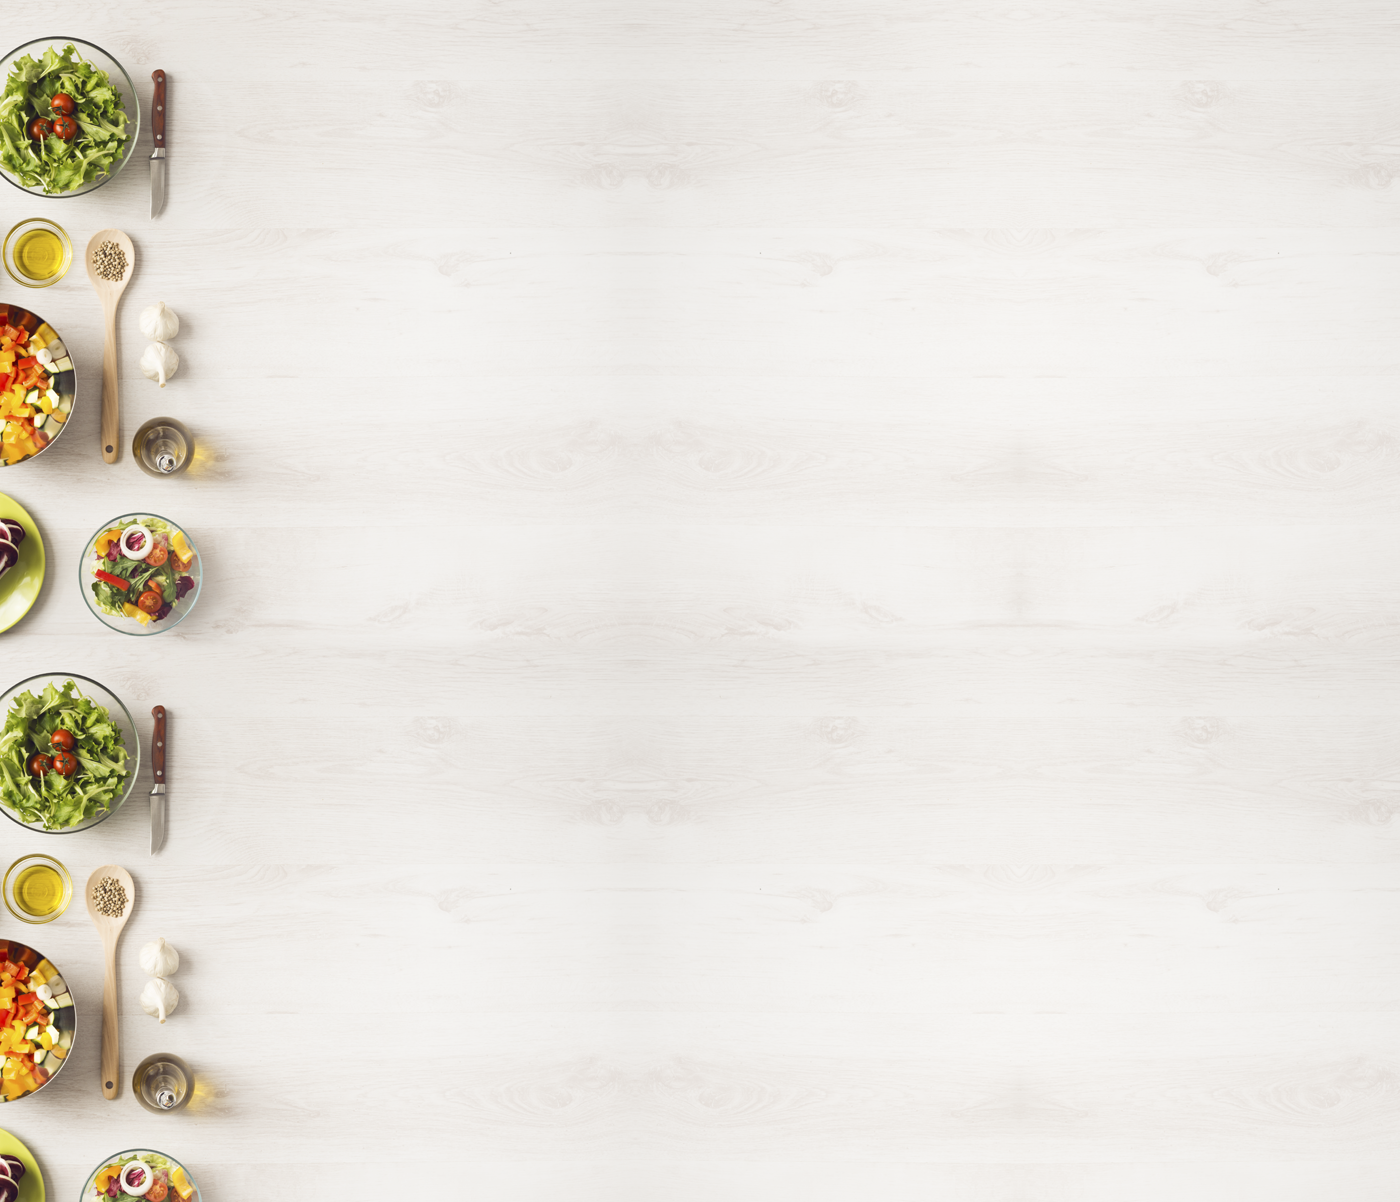
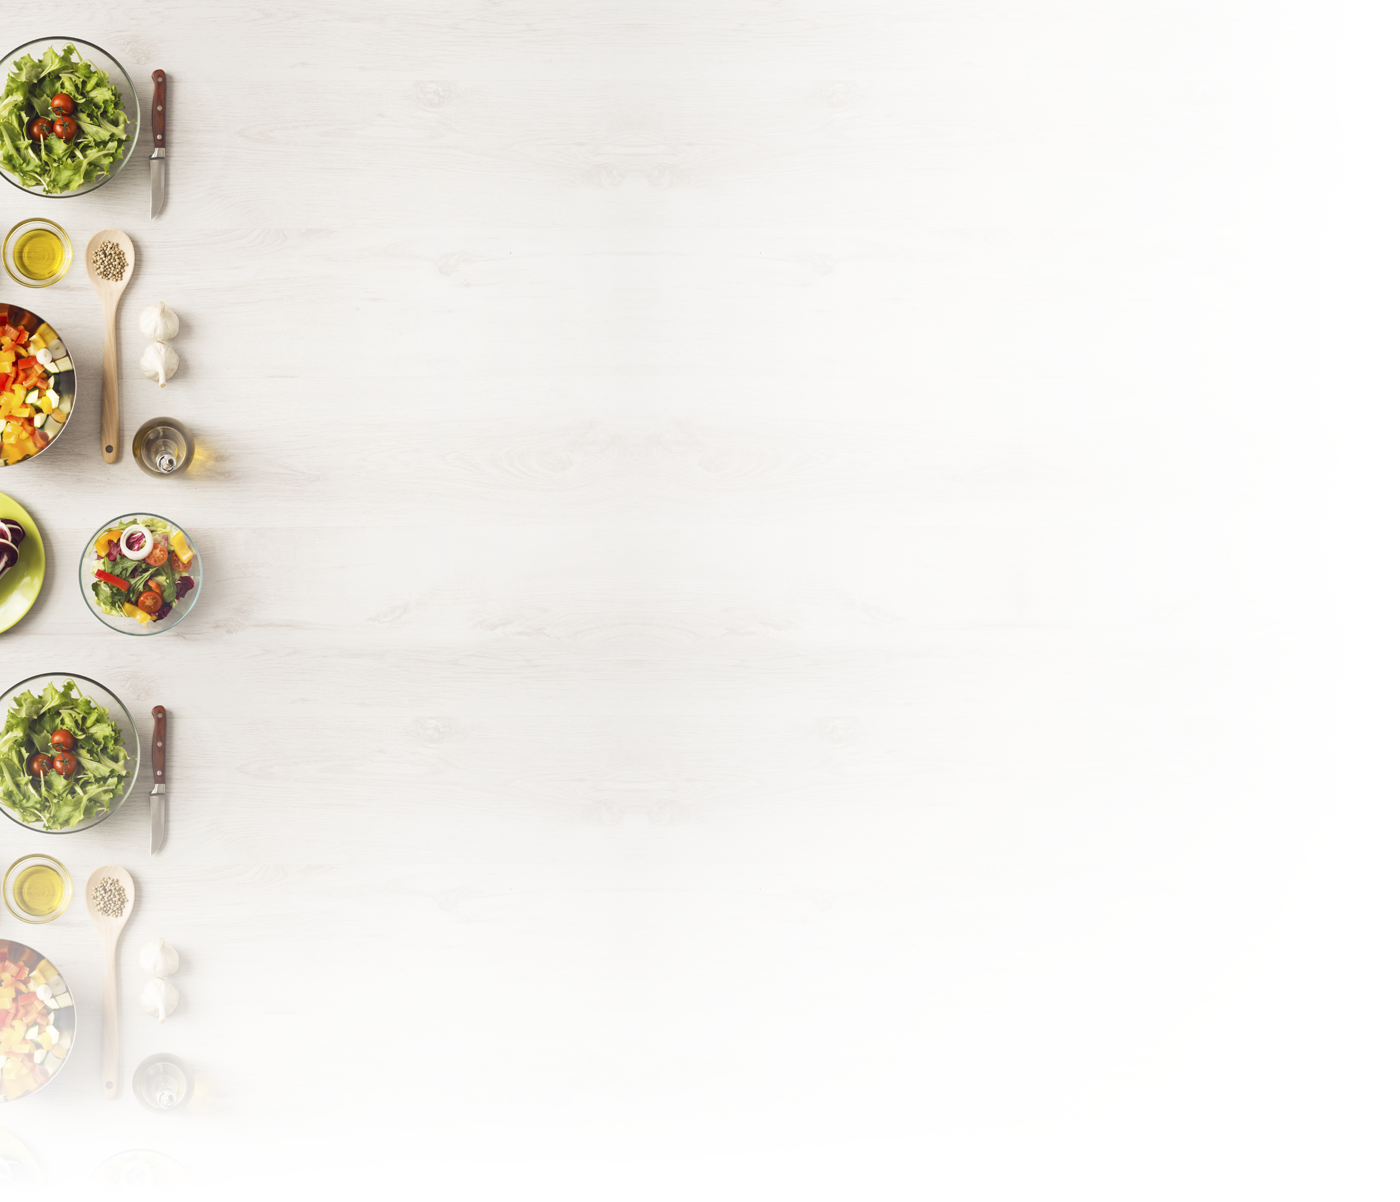
fixed background and header

diff --git a/main.html b/main.html
@@ -20,8 +20,12 @@
 <body>
     <div class="container">
         <div class="row">
-            <div class="col-md-6">
-                <h1>Hungry Hungry<br>Humans</h1></div>
+            <div class="col-md-4 col-xs-3">
+                <h1 class="bot-left">Hungry Hungry<br>Humans</h1></div>
+			<div class="col-md-2 col-xs-3">
+				<br>
+			<img src="assets/images/plate-utensil-logo-1.png" alt="Logo">
+			</div>
             <div class="col-md-6">
                 <div class="login-div">
                     <br>

diff --git a/assets/logic/index-redirect.js b/assets/logic/index-redirect.js
@@ -1,4 +1,14 @@
-$("#btnLogin").on("click", function() {
-	window.location.href = "main.html";
-})	 
+//$("#btnLogin").on("click", function() {
+//	
+//	
+//	     const email = txtEmail.value;
+//     const pass = txtPassword.value;
+//     const auth = firebase.auth();
+//
+//     // Sign in
+//     const promise = auth.signInWithEmailAndPassword(email, pass);
+//     promise.catch(e => console.log(e.message));
+//     promise.catch(e => alert(e.message));
+//	window.location.href = "main.html";
+//})	 
 	

diff --git a/assets/style/style.css b/assets/style/style.css
@@ -1,6 +1,7 @@
 body {
     background-image: url(../images/hhh-bkgd-2.png);
-    background-color: white;
+	background-repeat: no-repeat;
+    background-color: #eeebe7;
 }
 
 h1 {
@@ -57,7 +58,7 @@ h5 {
 
 img {
 margin-left: 50%;
-	width: 7vw;
+	width: 6.5vw;
 }
 
 .panel {
